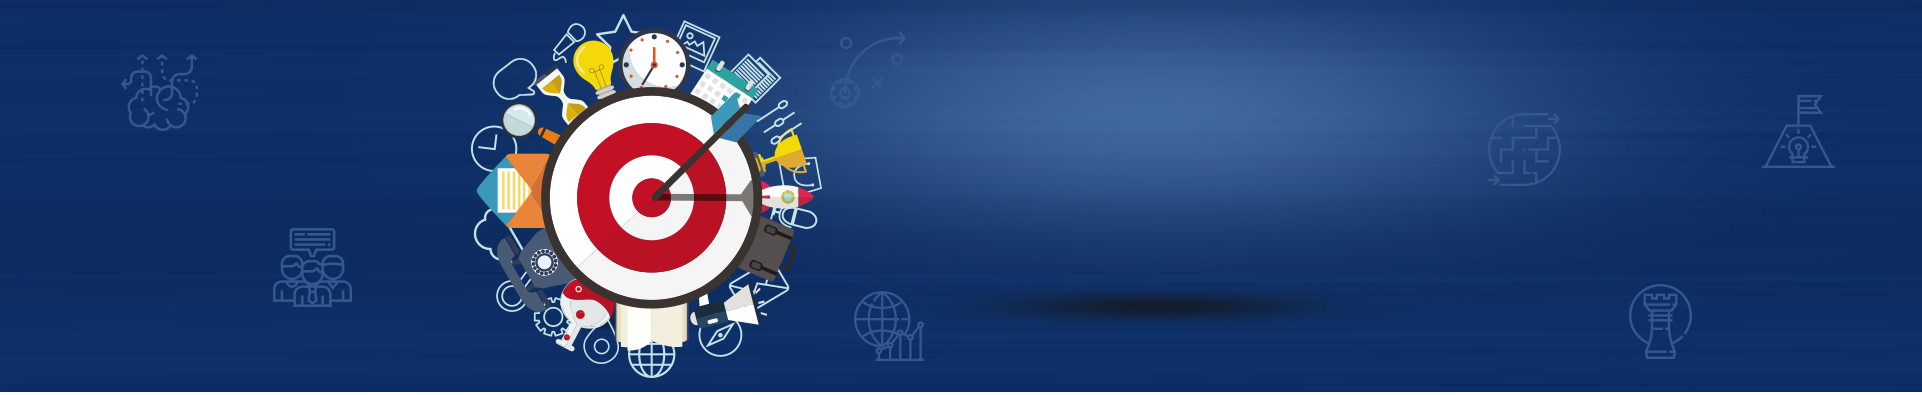
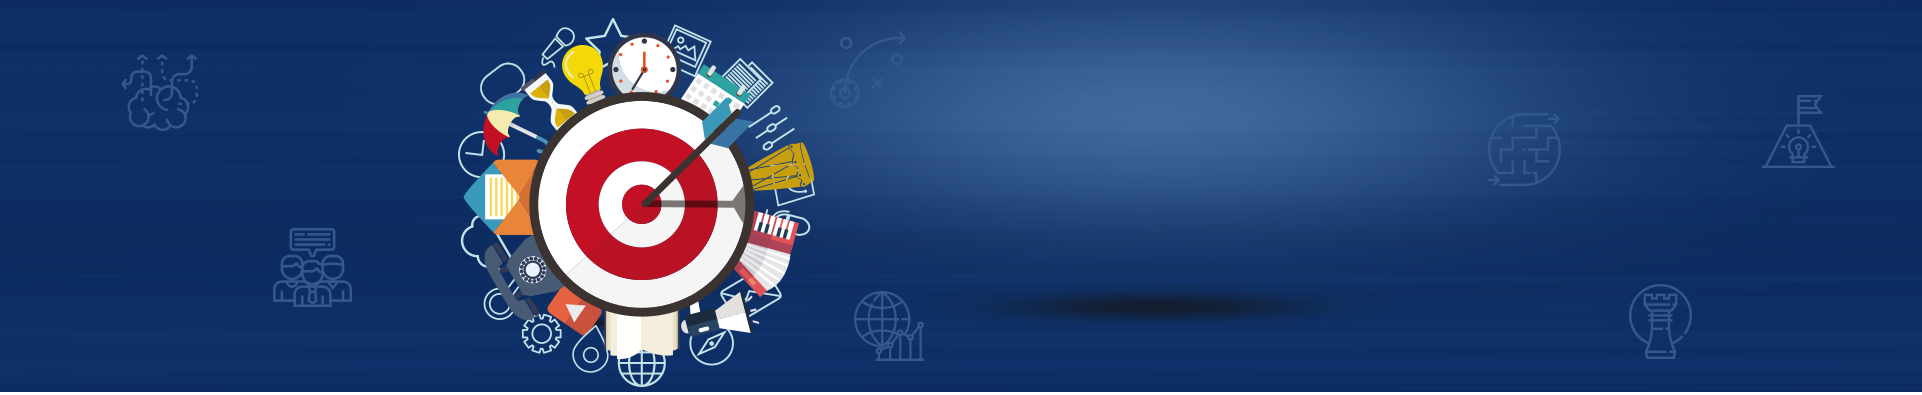
[UPDATE] Ajuste na imagem destaque

Changed region(s): [[0.2185, 0.0304, 0.437, 0.9722]]

diff --git a/src/wp-content/themes/diretrizesemetas/assets/css/dist/main.min.css b/src/wp-content/themes/diretrizesemetas/assets/css/dist/main.min.css
@@ -8,4 +8,4 @@
 * Includes: core.css, accordion.css, autocomplete.css, menu.css, button.css, controlgroup.css, checkboxradio.css, datepicker.css, dialog.css, draggable.css, resizable.css, progressbar.css, selectable.css, selectmenu.css, slider.css, sortable.css, spinner.css, tabs.css, tooltip.css, theme.css
 * To view and modify this theme, visit http://jqueryui.com/themeroller/?bgShadowXPos=&bgOverlayXPos=&bgErrorXPos=&bgHighlightXPos=&bgContentXPos=&bgHeaderXPos=&bgActiveXPos=&bgHoverXPos=&bgDefaultXPos=&bgShadowYPos=&bgOverlayYPos=&bgErrorYPos=&bgHighlightYPos=&bgContentYPos=&bgHeaderYPos=&bgActiveYPos=&bgHoverYPos=&bgDefaultYPos=&bgShadowRepeat=&bgOverlayRepeat=&bgErrorRepeat=&bgHighlightRepeat=&bgContentRepeat=&bgHeaderRepeat=&bgActiveRepeat=&bgHoverRepeat=&bgDefaultRepeat=&iconsHover=url(%22images%2Fui-icons_555555_256x240.png%22)&iconsHighlight=url(%22images%2Fui-icons_777620_256x240.png%22)&iconsHeader=url(%22images%2Fui-icons_444444_256x240.png%22)&iconsError=url(%22images%2Fui-icons_cc0000_256x240.png%22)&iconsDefault=url(%22images%2Fui-icons_777777_256x240.png%22)&iconsContent=url(%22images%2Fui-icons_444444_256x240.png%22)&iconsActive=url(%22images%2Fui-icons_ffffff_256x240.png%22)&bgImgUrlShadow=&bgImgUrlOverlay=&bgImgUrlHover=&bgImgUrlHighlight=&bgImgUrlHeader=&bgImgUrlError=&bgImgUrlDefault=&bgImgUrlContent=&bgImgUrlActive=&opacityFilterShadow=Alpha(Opacity%3D30)&opacityFilterOverlay=Alpha(Opacity%3D30)&opacityShadowPerc=30&opacityOverlayPerc=30&iconColorHover=%23555555&iconColorHighlight=%23777620&iconColorHeader=%23444444&iconColorError=%23cc0000&iconColorDefault=%23777777&iconColorContent=%23444444&iconColorActive=%23ffffff&bgImgOpacityShadow=0&bgImgOpacityOverlay=0&bgImgOpacityError=95&bgImgOpacityHighlight=55&bgImgOpacityContent=75&bgImgOpacityHeader=75&bgImgOpacityActive=65&bgImgOpacityHover=75&bgImgOpacityDefault=75&bgTextureShadow=flat&bgTextureOverlay=flat&bgTextureError=flat&bgTextureHighlight=flat&bgTextureContent=flat&bgTextureHeader=flat&bgTextureActive=flat&bgTextureHover=flat&bgTextureDefault=flat&cornerRadius=3px&fwDefault=normal&ffDefault=Arial%2CHelvetica%2Csans-serif&fsDefault=1em&cornerRadiusShadow=8px&thicknessShadow=5px&offsetLeftShadow=0px&offsetTopShadow=0px&opacityShadow=.3&bgColorShadow=%23666666&opacityOverlay=.3&bgColorOverlay=%23aaaaaa&fcError=%235f3f3f&borderColorError=%23f1a899&bgColorError=%23fddfdf&fcHighlight=%23777620&borderColorHighlight=%23dad55e&bgColorHighlight=%23fffa90&fcContent=%23333333&borderColorContent=%23dddddd&bgColorContent=%23ffffff&fcHeader=%23333333&borderColorHeader=%23dddddd&bgColorHeader=%23e9e9e9&fcActive=%23ffffff&borderColorActive=%23003eff&bgColorActive=%23007fff&fcHover=%232b2b2b&borderColorHover=%23cccccc&bgColorHover=%23ededed&fcDefault=%23454545&borderColorDefault=%23c5c5c5&bgColorDefault=%23f6f6f6
[1 lines of base64/hex data omitted]
-*{font-family:'Open Sans',sans-serif}a{text-decoration:underline}#barra-brasil{position:relative;z-index:2}#site-header{box-shadow:0 0 5px 2px rgba(0,0,0,.1);position:relative;z-index:1}#site-header h1{margin:0}#main-jumbotron{background:#0c2b5f url(../../images/banner-background.png) center bottom no-repeat;max-height:392px;margin-bottom:0}#main-jumbotron h2{text-transform:uppercase;color:#fff;font-weight:900;font-size:24px;text-shadow:0 1px #fff;margin-top:35px;margin-bottom:60px;line-height:30px}#main-jumbotron .btn{background:#000;font-size:30px;color:#fff;padding:18px 45px;position:relative;text-decoration:none}#main-jumbotron .btn:after{content:'';display:block;position:absolute;bottom:0;left:10%;box-shadow:0 10px 5px 2px rgba(0,0,0,.3);height:20px;width:80%;border-radius:50%}#main-form-wrapper .main-form-title{background:#000;margin:0}#main-form-wrapper .main-form-title h2{font-size:18px;font-weight:700;color:#fff;text-transform:uppercase;margin:0;padding:19px 0}#main-form-wrapper>.container>.row{position:relative;padding-top:50px;padding-bottom:65px}#main-form-wrapper>.container>.row>.aside{position:absolute;height:100%;bottom:0;top:0}#main-form-wrapper>.container>.row>.margin-left-25{margin-left:25%}#footer-brasil{display:none!important}#site-footer{background-color:#000;padding:0}.entry-title{margin:64px 0 48px;font-size:18px;font-weight:700;text-transform:uppercase}.entry-content{font-size:16px}#main-form-wrapper .aside,main>.container{background:#fff url(../../images/lateral-bg.png) left top repeat-y;padding-bottom:50px}label{font-size:16px;font-weight:lighter;cursor:pointer}input,select,textarea{background:#e6e6e6;border:none;padding:10px;border-radius:3px;width:100%}ul{list-style-type:none}input[type=checkbox],input[type=radio]{border:1px solid #b4b9be;background:#fff;color:#555;clear:none;cursor:pointer;display:inline-block;line-height:0;height:16px;margin:-4px 8px 0 0;outline:0;padding:0!important;text-align:center;vertical-align:middle;width:16px;min-width:16px;-webkit-appearance:none;box-shadow:inset 0 1px 2px rgba(0,0,0,.1);transition:.05s border-color ease-in-out;border-radius:50%}input[type=checkbox]{position:relative}input[type=checkbox]{border-radius:15%}input[type=checkbox]:checked:before,input[type=radio]:checked:before{content:"\2022";text-indent:-9999px;border-radius:50%;font-size:24px;width:10px;height:10px;margin:2px;line-height:16px;background-color:#000}input[type=checkbox]:checked:before,input[type=radio]:checked:before{float:left;display:inline-block;vertical-align:middle;font:400 21px/1 dashicons;speak:none;-webkit-font-smoothing:antialiased;-moz-osx-font-smoothing:grayscale}input[type=checkbox]:checked:before{content:"\2713";-webkit-border-radius:15%;background:0 0;color:#000;text-indent:0;position:absolute;top:0;left:0;margin:0;line-height:10px;font-size:18px;height:16px;width:16px}.acf-input{margin-bottom:25px}.acf-input ul{margin:0;padding:0}#main-form .acf-form-submit{text-align:right}#main-form .acf-form-submit input[type=submit]{width:auto;background:#000;color:#fff;font-size:18px;padding:12px 25px}#message,.acf-error-message{padding-right:15px;padding-left:15px;margin-bottom:30px}.acf-input>.acf-error-message{padding:0}#message>p,.acf-error-message p{color:#155724;background-color:#d4edda;border-color:#c3e6cb;padding:.75rem 1.25rem;margin-bottom:1rem;border:1px solid transparent;border-radius:.25rem;font-size:18px}.acf-error-message p{color:#721c24;background-color:#f8d7da;border-color:#f5c6cb}@media (min-width:768px){.container{max-width:900px!important}}@media (max-width:768px){#site-footer,#site-footer .text-right,#site-header,#site-header .text-right{text-align:center}#main-jumbotron img{padding:15px 0;max-height:200px}#main-jumbotron h2{margin:15px 10%}#main-jumbotron .btn{padding:15px 30px}#main-form-wrapper .aside,main>.container{background:0 0}#main-form-wrapper>.container>.row>.margin-left-25{margin-left:0}#main-form .acf-form-submit{text-align:center}}@media (max-width:990px){#main-jumbotron{max-height:none;text-align:center}}#header{padding:14px 0 0 0;background-color:#e4e4f5;background-image:radial-gradient(ellipse at center,#fff 1%,#e4e4e4 100%);color:#fff;filter:progid:DXImageTransform.Microsoft.gradient(startColorstr="#1074BC", endColorstr="#34378F", GradientType=1);min-height:170px}#header a{color:#000}#portal-title{margin:0;margin:14px 0 -6px;color:#292929;font-size:3.35em;font-family:'Open Sans',Arial,Helvetica,sans-serif;font-weight:800}#portal-description{font-size:1.2em;margin-top:5px;color:#000;text-transform:uppercase}#logo-header-tema{float:left;padding:0;width:70%}#portal-siteactions{display:block;float:right;clear:none;padding-bottom:2px}#logo-header-tema a{text-decoration:none;color:#000}#accessibility{display:block!important;float:left;font-size:.8em;margin-left:0;font-family:Arial,Helvetica,sans-serif;padding-left:0}#accessibility li{display:inline}#accessibility a{color:#000;text-decoration:none}#portal-siteactions li{display:inline}#portal-siteactions a{padding:4px 0 4px 10px;text-decoration:none;text-transform:uppercase;font-size:11px}#header>div{position:relative;overflow:hidden;margin:0 auto;max-width:1060px}#accessibility span{padding:0 3px;background:#000;color:#fff}body.alto-contraste-ativo{background:#000;color:#fff}body.alto-contraste-ativo #header{background:#000}body.alto-contraste-ativo #header *{color:#fff}body.alto-contraste-ativo #accessibility span{color:#000;background:#f1f1f1}body.alto-contraste-ativo #main-form-wrapper .aside,body.alto-contraste-ativo main>.container{color:#fff}body.alto-contraste-ativo #main-form-wrapper .main-form-title{color:#000;background:#f1f1f1}body.alto-contraste-ativo #main-form-wrapper .main-form-title h2{color:#000}body.alto-contraste-ativo #main-form .acf-form-submit input[type=submit]{background:#fff;color:#000}body.alto-contraste-ativo #main-form-wrapper .aside,body.alto-contraste-ativo main>.container{filter:invert(100%);-webkit-filter:invert(100%);-moz-filter:invert(100%);-o-filter:invert(100%);-ms-filter:invert(100%)}body.alto-contraste-ativo .entry-content,body.alto-contraste-ativo .entry-title{filter:invert(100%);-webkit-filter:invert(100%);-moz-filter:invert(100%);-o-filter:invert(100%);-ms-filter:invert(100%)}div#wrapper-barra-brasil{max-width:1060px}body.alto-contraste-ativo #main-form input,body.alto-contraste-ativo #main-form select,body.alto-contraste-ativo #main-form textarea{color:#000}body.alto-contraste-ativo .acf-fields,body.alto-contraste-ativo .acf-repeater>table{background:#000}body.alto-contraste-ativo .acf-actions a{color:#fff}#modal-inscricao .modal-content{color:#155724;background-color:#d4edda;border-color:#c3e6cb;text-align:center}.acf-icon.-minus:before{content:'\2212';position:absolute;top:0;left:0;width:100%;height:100%;margin-top:-1px}.acf-icon{position:relative;display:inline-block;height:26px;width:26px;border:transparent solid 1px;border-radius:100%;font-size:16px;line-height:26px;text-align:center;text-decoration:none;vertical-align:top}span.acf-icon{color:#999;border-color:#bbb;background-color:#fff}a.acf-icon{color:#999;border-color:#bbb;background-color:#fff;position:relative;overflow:hidden;transition:none}a.acf-icon:hover{text-decoration:none}.acf-icon.-pencil{font-size:15px}.acf-icon.-location{font-size:18px}a.acf-icon:hover{border-color:transparent;background:#b4b9be;color:#fff}a.acf-icon:active,a.acf-icon:focus{outline:0;box-shadow:none}a.acf-icon.-cancel:hover,a.acf-icon.-minus:hover{background-color:#f55e4f}.acf-icon.small{width:18px;height:18px;line-height:18px;font-size:14px}.acf-icon.light{border:0 none;padding:1px;background:#f5f5f5}.acf-icon.light:hover{background:#0073aa}.acf-repeater>table{margin:0 0 8px;background:#f9f9f9}.acf-repeater .acf-row-handle{width:16px;text-align:center!important;vertical-align:middle!important;position:relative}.acf-repeater .acf-row-handle .acf-icon{display:none;position:absolute;top:0;margin:-8px 0 0 -2px}.acf-repeater .acf-row-handle .acf-icon.-minus{top:50%}body.browser-msie .acf-repeater .acf-row-handle .acf-icon.-minus{top:25px}.acf-repeater .acf-row-handle.order{background:#f4f4f4;cursor:move;color:#000;text-shadow:#fff 0 1px 0}.acf-repeater .acf-row-handle.order:hover{color:#666}.acf-repeater .acf-row-handle.order>span{display:inline-block;width:22px;text-align:center;border:1px solid;border-radius:50%;line-height:20px}.acf-repeater .acf-row-handle.order+td{border-left-color:#dfdfdf}.acf-repeater .acf-row-handle.remove{background:#f9f9f9;border-left-color:#dfdfdf}.acf-repeater th.acf-row-handle:before{content:"";width:16px;display:block;height:1px}.acf-repeater .acf-row.acf-clone{display:none!important}.acf-repeater .acf-row:hover>.acf-row-handle .acf-icon{display:block}.acf-repeater>table>tbody>tr.ui-sortable-helper{box-shadow:0 1px 5px rgba(0,0,0,.2)}.acf-repeater>table>tbody>tr.ui-sortable-placeholder{visibility:visible!important}.acf-repeater>table>tbody>tr.ui-sortable-placeholder td{background:#f9f9f9}.acf-repeater.-block>table>tbody>tr>td,.acf-repeater.-row>table>tbody>tr>td{border-top-color:#e1e1e1}.acf-repeater.-empty>table{border-bottom:0 none}.acf-repeater.-empty.-block>table,.acf-repeater.-empty.-row>table{display:none}.acf-repeater .acf-row.-collapsed>.acf-field{display:none!important}.acf-repeater .acf-row.-collapsed>td.acf-field.-collapsed-target{display:table-cell!important}.acf-repeater .acf-row.-collapsed>.acf-fields>*{display:none!important}.acf-repeater .acf-row.-collapsed>.acf-fields>.acf-field.-collapsed-target{display:block!important}.acf-repeater.-table .acf-row.-collapsed .acf-field.-collapsed-target{border-left-color:#dfdfdf}.acf-table{border:#dfdfdf solid 1px;background:#fff;border-spacing:0;border-radius:0;table-layout:auto;padding:0;margin:0;width:100%;clear:both}.acf-table>tbody>tr>td,.acf-table>tbody>tr>th,.acf-table>thead>tr>td,.acf-table>thead>tr>th{padding:8px;vertical-align:top;background:#fff;text-align:left;border-style:solid;font-weight:400}.acf-table>tbody>tr>th,.acf-table>thead>tr>th{position:relative;color:#333}.acf-table>thead>tr>th{border-color:#e1e1e1;border-width:0 0 1px 1px}.acf-table>thead>tr>th:first-child{border-left-width:0}.acf-table>tbody>tr{z-index:1}.acf-table>tbody>tr>td{border-color:#ededed;border-width:1px 0 0 1px}.acf-table>tbody>tr>td:first-child{border-left-width:0}.acf-table>tbody>tr:first-child>td{border-top-width:0}.acf-table.-clear{border:0 none}.acf-table.-clear>tbody>tr>td,.acf-table.-clear>tbody>tr>th,.acf-table.-clear>thead>tr>td,.acf-table.-clear>thead>tr>th{border:0 none;padding:4px}.acf-remove-element{transition:all .25s ease-out;-webkit-transform:translate(50px,0);transform:translate(50px,0);opacity:0}.acf-repeater .acf-row:hover>.acf-row-handle .acf-icon.-plus{display:none}.acf-repeater .acf-input{margin-bottom:12px}.acf-repeater .acf-field[data-name=prazo]{padding-left:0}.acf-repeater .acf-field[data-name=percentual_execucao]{padding-right:0}.acf-radio-list li{margin-bottom:10px}.acf-required{color:red}.acf-ui-datepicker input,.acf-ui-datepicker select{padding:5px}.ui-datepicker-month{text-transform:capitalize}.acf-input-append,.acf-input-prepend{padding:3px 7px;background:#f4f4f4;border:#dfdfdf solid 1px}.acf-input-prepend{float:left;border-right-width:0;border-radius:3px 0 0 3px;line-height:32px}.acf-input-append{float:right;border-left-width:0;border-radius:0 3px 3px 0}.acf-input-wrap{position:relative;overflow:hidden}.acf-input-wrap input{margin:0}input.acf-is-prepended{border-radius:0 3px 3px 0!important}input.acf-is-appended{border-radius:3px 0 0 3px!important}input.acf-is-prepended.acf-is-appended{border-radius:0!important}html[dir=rtl] .acf-input-prepend{border-left-width:0;border-right-width:1px;border-radius:0 3px 3px 0;float:right}html[dir=rtl] .acf-input-append{border-left-width:1px;border-right-width:0;border-radius:3px 0 0 3px;float:left}html[dir=rtl] input.acf-is-prepended{border-radius:3px 0 0 3px!important}html[dir=rtl] input.acf-is-appended{border-radius:0 3px 3px 0!important}html[dir=rtl] input.acf-is-prepended.acf-is-appended{border-radius:0!important}.acf-checkbox-list li{margin-bottom:12px}.acf-label>label{font-weight:700}
+*{font-family:'Open Sans',sans-serif}a{text-decoration:underline}#barra-brasil{position:relative;z-index:2}#site-header{box-shadow:0 0 5px 2px rgba(0,0,0,.1);position:relative;z-index:1}#site-header h1{margin:0}#main-jumbotron{background:#0c2b5f url(../../images/banner-background.png) center no-repeat;min-height:395px;margin-bottom:0}#main-jumbotron h2{text-transform:uppercase;color:#fff;font-weight:900;font-size:24px;text-shadow:0 1px #fff;margin-top:35px;margin-bottom:60px;line-height:30px}#main-jumbotron .btn{background:#000;font-size:30px;color:#fff;padding:18px 45px;position:relative;text-decoration:none}#main-jumbotron .btn:after{content:'';display:block;position:absolute;bottom:0;left:10%;box-shadow:0 10px 5px 2px rgba(0,0,0,.3);height:20px;width:80%;border-radius:50%}#main-form-wrapper .main-form-title{background:#000;margin:0}#main-form-wrapper .main-form-title h2{font-size:18px;font-weight:700;color:#fff;text-transform:uppercase;margin:0;padding:19px 0}#main-form-wrapper>.container>.row{position:relative;padding-top:50px;padding-bottom:65px}#main-form-wrapper>.container>.row>.aside{position:absolute;height:100%;bottom:0;top:0}#main-form-wrapper>.container>.row>.margin-left-25{margin-left:25%}#footer-brasil{display:none!important}#site-footer{background-color:#000;padding:0}.entry-title{margin:64px 0 48px;font-size:18px;font-weight:700;text-transform:uppercase}.entry-content{font-size:16px}#main-form-wrapper .aside,main>.container{background:#fff url(../../images/lateral-bg.png) left top repeat-y;padding-bottom:50px}label{font-size:16px;font-weight:lighter;cursor:pointer}input,select,textarea{background:#e6e6e6;border:none;padding:10px;border-radius:3px;width:100%}ul{list-style-type:none}input[type=checkbox],input[type=radio]{border:1px solid #b4b9be;background:#fff;color:#555;clear:none;cursor:pointer;display:inline-block;line-height:0;height:16px;margin:-4px 8px 0 0;outline:0;padding:0!important;text-align:center;vertical-align:middle;width:16px;min-width:16px;-webkit-appearance:none;box-shadow:inset 0 1px 2px rgba(0,0,0,.1);transition:.05s border-color ease-in-out;border-radius:50%}input[type=checkbox]{position:relative}input[type=checkbox]{border-radius:15%}input[type=checkbox]:checked:before,input[type=radio]:checked:before{content:"\2022";text-indent:-9999px;border-radius:50%;font-size:24px;width:10px;height:10px;margin:2px;line-height:16px;background-color:#000}input[type=checkbox]:checked:before,input[type=radio]:checked:before{float:left;display:inline-block;vertical-align:middle;font:400 21px/1 dashicons;speak:none;-webkit-font-smoothing:antialiased;-moz-osx-font-smoothing:grayscale}input[type=checkbox]:checked:before{content:"\2713";-webkit-border-radius:15%;background:0 0;color:#000;text-indent:0;position:absolute;top:0;left:0;margin:0;line-height:10px;font-size:18px;height:16px;width:16px}.acf-input{margin-bottom:25px}.acf-input ul{margin:0;padding:0}#main-form .acf-form-submit{text-align:right}#main-form .acf-form-submit input[type=submit]{width:auto;background:#000;color:#fff;font-size:18px;padding:12px 25px}#message,.acf-error-message{padding-right:15px;padding-left:15px;margin-bottom:30px}.acf-input>.acf-error-message{padding:0}#message>p,.acf-error-message p{color:#155724;background-color:#d4edda;border-color:#c3e6cb;padding:.75rem 1.25rem;margin-bottom:1rem;border:1px solid transparent;border-radius:.25rem;font-size:18px}.acf-error-message p{color:#721c24;background-color:#f8d7da;border-color:#f5c6cb}@media (min-width:768px){.container{max-width:900px!important}}@media (max-width:768px){#site-footer,#site-footer .text-right,#site-header,#site-header .text-right{text-align:center}#main-jumbotron img{padding:15px 0;max-height:200px}#main-jumbotron h2{margin:15px 10%}#main-jumbotron .btn{padding:15px 30px}#main-form-wrapper .aside,main>.container{background:0 0}#main-form-wrapper>.container>.row>.margin-left-25{margin-left:0}#main-form .acf-form-submit{text-align:center}}@media (max-width:990px){#main-jumbotron{max-height:none;text-align:center}}#header{padding:14px 0 0 0;background-color:#e4e4f5;background-image:radial-gradient(ellipse at center,#fff 1%,#e4e4e4 100%);color:#fff;filter:progid:DXImageTransform.Microsoft.gradient(startColorstr="#1074BC", endColorstr="#34378F", GradientType=1);min-height:170px}#header a{color:#000}#portal-title{margin:0;margin:14px 0 -6px;color:#292929;font-size:3.35em;font-family:'Open Sans',Arial,Helvetica,sans-serif;font-weight:800}#portal-description{font-size:1.2em;margin-top:5px;color:#000;text-transform:uppercase}#logo-header-tema{float:left;padding:0;width:70%}#portal-siteactions{display:block;float:right;clear:none;padding-bottom:2px}#logo-header-tema a{text-decoration:none;color:#000}#accessibility{display:block!important;float:left;font-size:.8em;margin-left:0;font-family:Arial,Helvetica,sans-serif;padding-left:0}#accessibility li{display:inline}#accessibility a{color:#000;text-decoration:none}#portal-siteactions li{display:inline}#portal-siteactions a{padding:4px 0 4px 10px;text-decoration:none;text-transform:uppercase;font-size:11px}#header>div{position:relative;overflow:hidden;margin:0 auto;max-width:1060px}#accessibility span{padding:0 3px;background:#000;color:#fff}body.alto-contraste-ativo{background:#000;color:#fff}body.alto-contraste-ativo #header{background:#000}body.alto-contraste-ativo #header *{color:#fff}body.alto-contraste-ativo #accessibility span{color:#000;background:#f1f1f1}body.alto-contraste-ativo #main-form-wrapper .aside,body.alto-contraste-ativo main>.container{color:#fff}body.alto-contraste-ativo #main-form-wrapper .main-form-title{color:#000;background:#f1f1f1}body.alto-contraste-ativo #main-form-wrapper .main-form-title h2{color:#000}body.alto-contraste-ativo #main-form .acf-form-submit input[type=submit]{background:#fff;color:#000}body.alto-contraste-ativo #main-form-wrapper .aside,body.alto-contraste-ativo main>.container{filter:invert(100%);-webkit-filter:invert(100%);-moz-filter:invert(100%);-o-filter:invert(100%);-ms-filter:invert(100%)}body.alto-contraste-ativo .entry-content,body.alto-contraste-ativo .entry-title{filter:invert(100%);-webkit-filter:invert(100%);-moz-filter:invert(100%);-o-filter:invert(100%);-ms-filter:invert(100%)}div#wrapper-barra-brasil{max-width:1060px}body.alto-contraste-ativo #main-form input,body.alto-contraste-ativo #main-form select,body.alto-contraste-ativo #main-form textarea{color:#000}body.alto-contraste-ativo .acf-fields,body.alto-contraste-ativo .acf-repeater>table{background:#000}body.alto-contraste-ativo .acf-actions a{color:#fff}#modal-inscricao .modal-content{color:#155724;background-color:#d4edda;border-color:#c3e6cb;text-align:center}.acf-icon.-minus:before{content:'\2212';position:absolute;top:0;left:0;width:100%;height:100%;margin-top:-1px}.acf-icon{position:relative;display:inline-block;height:26px;width:26px;border:transparent solid 1px;border-radius:100%;font-size:16px;line-height:26px;text-align:center;text-decoration:none;vertical-align:top}span.acf-icon{color:#999;border-color:#bbb;background-color:#fff}a.acf-icon{color:#999;border-color:#bbb;background-color:#fff;position:relative;overflow:hidden;transition:none}a.acf-icon:hover{text-decoration:none}.acf-icon.-pencil{font-size:15px}.acf-icon.-location{font-size:18px}a.acf-icon:hover{border-color:transparent;background:#b4b9be;color:#fff}a.acf-icon:active,a.acf-icon:focus{outline:0;box-shadow:none}a.acf-icon.-cancel:hover,a.acf-icon.-minus:hover{background-color:#f55e4f}.acf-icon.small{width:18px;height:18px;line-height:18px;font-size:14px}.acf-icon.light{border:0 none;padding:1px;background:#f5f5f5}.acf-icon.light:hover{background:#0073aa}.acf-repeater>table{margin:0 0 8px;background:#f9f9f9}.acf-repeater .acf-row-handle{width:16px;text-align:center!important;vertical-align:middle!important;position:relative}.acf-repeater .acf-row-handle .acf-icon{display:none;position:absolute;top:0;margin:-8px 0 0 -2px}.acf-repeater .acf-row-handle .acf-icon.-minus{top:50%}body.browser-msie .acf-repeater .acf-row-handle .acf-icon.-minus{top:25px}.acf-repeater .acf-row-handle.order{background:#f4f4f4;cursor:move;color:#000;text-shadow:#fff 0 1px 0}.acf-repeater .acf-row-handle.order:hover{color:#666}.acf-repeater .acf-row-handle.order>span{display:inline-block;width:22px;text-align:center;border:1px solid;border-radius:50%;line-height:20px}.acf-repeater .acf-row-handle.order+td{border-left-color:#dfdfdf}.acf-repeater .acf-row-handle.remove{background:#f9f9f9;border-left-color:#dfdfdf}.acf-repeater th.acf-row-handle:before{content:"";width:16px;display:block;height:1px}.acf-repeater .acf-row.acf-clone{display:none!important}.acf-repeater .acf-row:hover>.acf-row-handle .acf-icon{display:block}.acf-repeater>table>tbody>tr.ui-sortable-helper{box-shadow:0 1px 5px rgba(0,0,0,.2)}.acf-repeater>table>tbody>tr.ui-sortable-placeholder{visibility:visible!important}.acf-repeater>table>tbody>tr.ui-sortable-placeholder td{background:#f9f9f9}.acf-repeater.-block>table>tbody>tr>td,.acf-repeater.-row>table>tbody>tr>td{border-top-color:#e1e1e1}.acf-repeater.-empty>table{border-bottom:0 none}.acf-repeater.-empty.-block>table,.acf-repeater.-empty.-row>table{display:none}.acf-repeater .acf-row.-collapsed>.acf-field{display:none!important}.acf-repeater .acf-row.-collapsed>td.acf-field.-collapsed-target{display:table-cell!important}.acf-repeater .acf-row.-collapsed>.acf-fields>*{display:none!important}.acf-repeater .acf-row.-collapsed>.acf-fields>.acf-field.-collapsed-target{display:block!important}.acf-repeater.-table .acf-row.-collapsed .acf-field.-collapsed-target{border-left-color:#dfdfdf}.acf-table{border:#dfdfdf solid 1px;background:#fff;border-spacing:0;border-radius:0;table-layout:auto;padding:0;margin:0;width:100%;clear:both}.acf-table>tbody>tr>td,.acf-table>tbody>tr>th,.acf-table>thead>tr>td,.acf-table>thead>tr>th{padding:8px;vertical-align:top;background:#fff;text-align:left;border-style:solid;font-weight:400}.acf-table>tbody>tr>th,.acf-table>thead>tr>th{position:relative;color:#333}.acf-table>thead>tr>th{border-color:#e1e1e1;border-width:0 0 1px 1px}.acf-table>thead>tr>th:first-child{border-left-width:0}.acf-table>tbody>tr{z-index:1}.acf-table>tbody>tr>td{border-color:#ededed;border-width:1px 0 0 1px}.acf-table>tbody>tr>td:first-child{border-left-width:0}.acf-table>tbody>tr:first-child>td{border-top-width:0}.acf-table.-clear{border:0 none}.acf-table.-clear>tbody>tr>td,.acf-table.-clear>tbody>tr>th,.acf-table.-clear>thead>tr>td,.acf-table.-clear>thead>tr>th{border:0 none;padding:4px}.acf-remove-element{transition:all .25s ease-out;-webkit-transform:translate(50px,0);transform:translate(50px,0);opacity:0}.acf-repeater .acf-row:hover>.acf-row-handle .acf-icon.-plus{display:none}.acf-repeater .acf-input{margin-bottom:12px}.acf-repeater .acf-field[data-name=prazo]{padding-left:0}.acf-repeater .acf-field[data-name=percentual_execucao]{padding-right:0}.acf-radio-list li{margin-bottom:10px}.acf-required{color:red}.acf-ui-datepicker input,.acf-ui-datepicker select{padding:5px}.ui-datepicker-month{text-transform:capitalize}.acf-input-append,.acf-input-prepend{padding:3px 7px;background:#f4f4f4;border:#dfdfdf solid 1px}.acf-input-prepend{float:left;border-right-width:0;border-radius:3px 0 0 3px;line-height:32px}.acf-input-append{float:right;border-left-width:0;border-radius:0 3px 3px 0}.acf-input-wrap{position:relative;overflow:hidden}.acf-input-wrap input{margin:0}input.acf-is-prepended{border-radius:0 3px 3px 0!important}input.acf-is-appended{border-radius:3px 0 0 3px!important}input.acf-is-prepended.acf-is-appended{border-radius:0!important}html[dir=rtl] .acf-input-prepend{border-left-width:0;border-right-width:1px;border-radius:0 3px 3px 0;float:right}html[dir=rtl] .acf-input-append{border-left-width:1px;border-right-width:0;border-radius:3px 0 0 3px;float:left}html[dir=rtl] input.acf-is-prepended{border-radius:3px 0 0 3px!important}html[dir=rtl] input.acf-is-appended{border-radius:0 3px 3px 0!important}html[dir=rtl] input.acf-is-prepended.acf-is-appended{border-radius:0!important}.acf-checkbox-list li{margin-bottom:12px}.acf-label>label{font-weight:700}

diff --git a/src/wp-content/themes/diretrizesemetas/assets/css/src/main.css b/src/wp-content/themes/diretrizesemetas/assets/css/src/main.css
@@ -24,8 +24,8 @@ a{
 }
 
 #main-jumbotron{
-	background: #0c2b5f url(../../images/banner-background.png) center bottom no-repeat;
-	max-height: 392px;
+	background: #0c2b5f url(../../images/banner-background.png) center no-repeat;
+	min-height: 395px;
 	margin-bottom: 0;
 }
 
